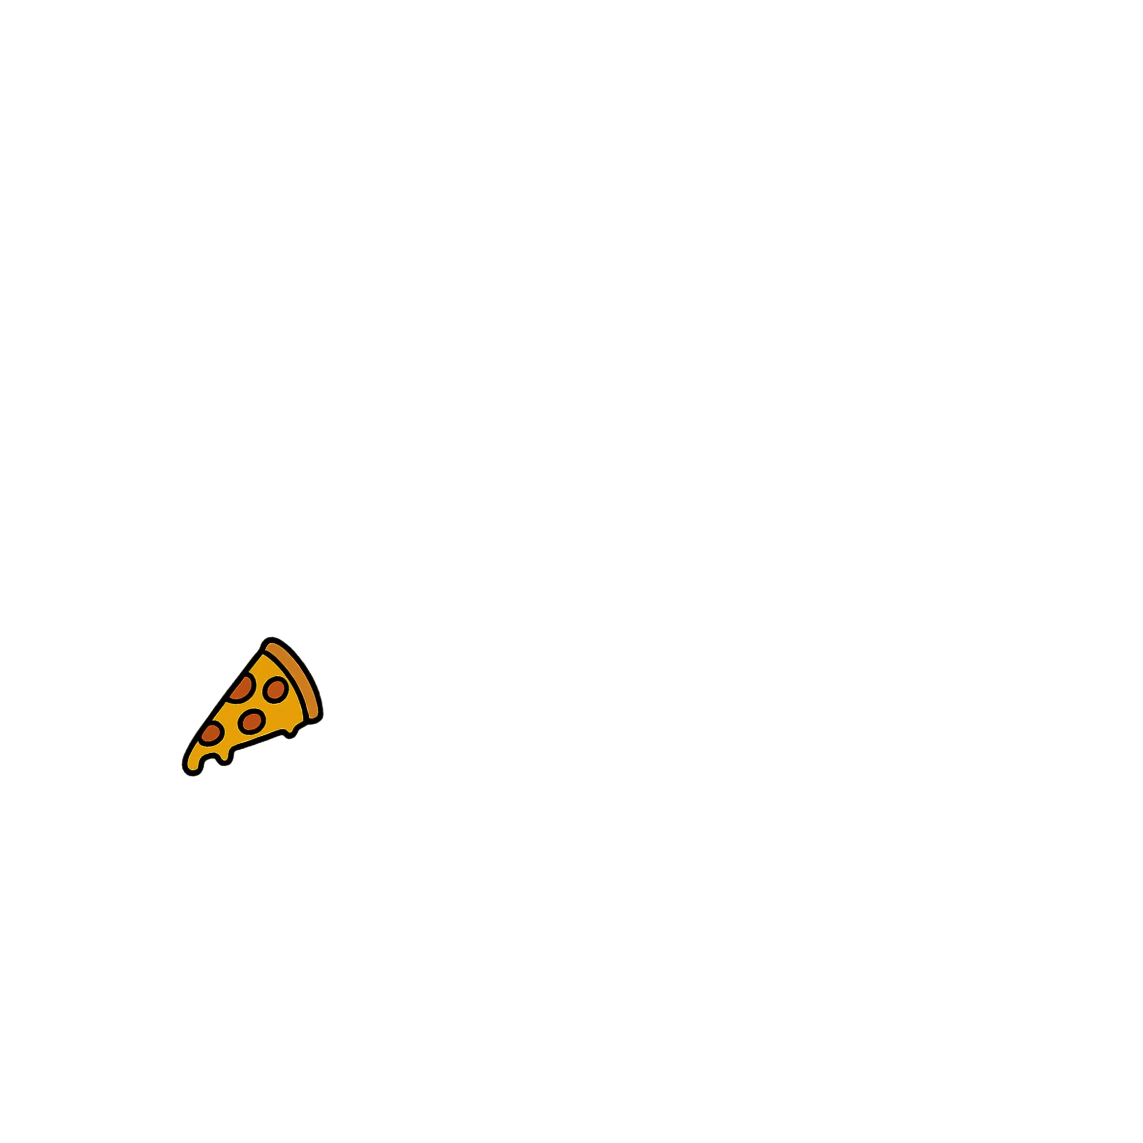
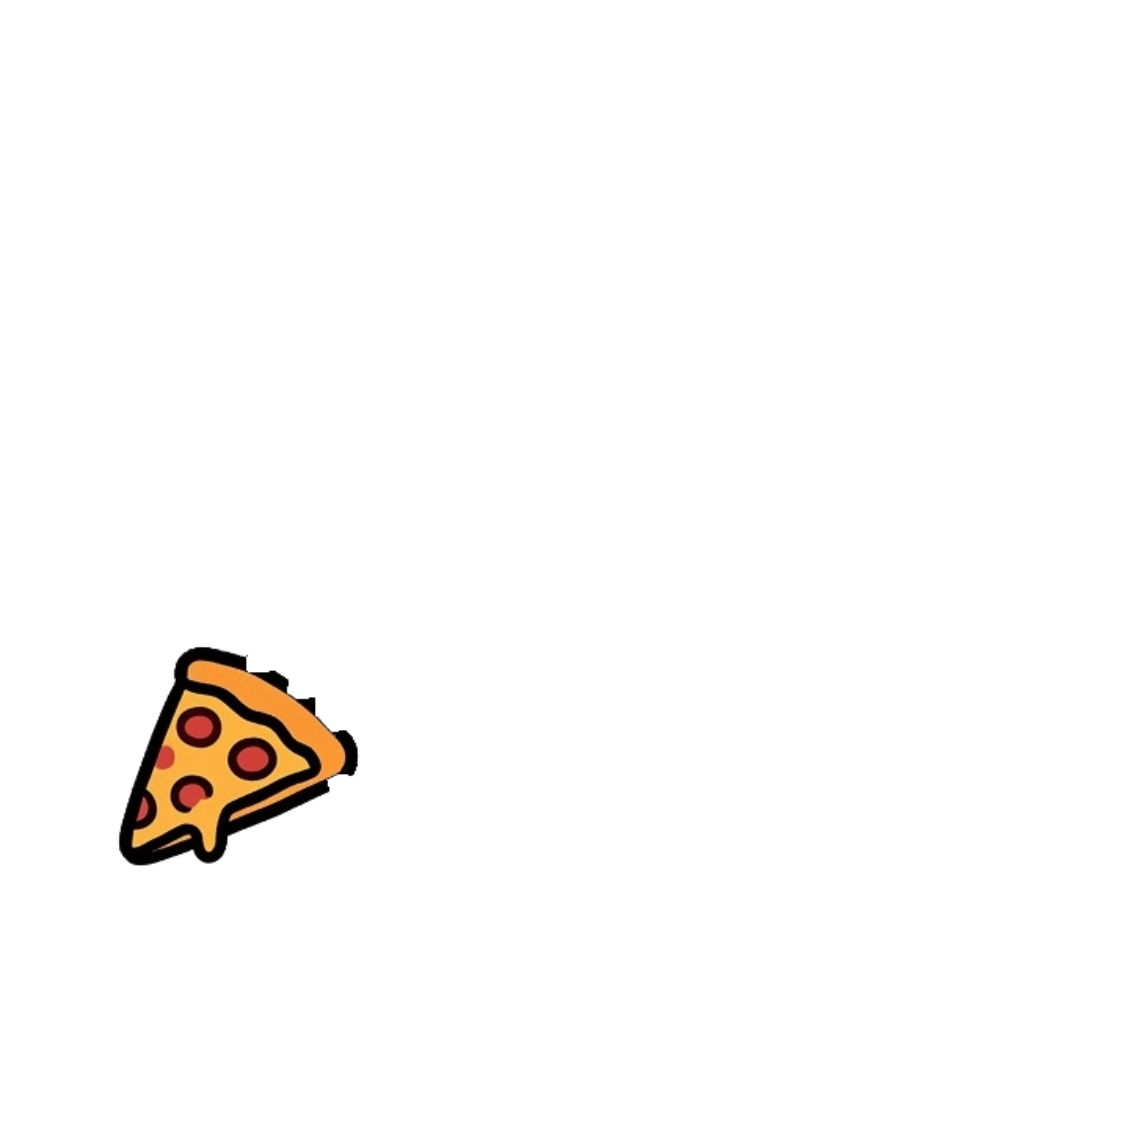
Ship 5 more left_hand rebuilds; handoff: mirror trick, image limit
ping-gameboy, ping-gameboy(Pink), pizza-slice, popcorn, redbull.

Changed region(s): [[0.0919, 0.5512, 0.3368, 0.7655]]

diff --git a/docs/HANDOFF.md b/docs/HANDOFF.md
@@ -1574,3 +1574,46 @@ Owner ruled **birthday-candle REMOVE** mid-session. Both copies are in
    republish to the vetting artifact URL, owner vets, then
    `ship-fixes.mjs --apply`, `rm -rf public/traits-512`,
    `node scripts/generate-index.mjs`, vitest + tsc, commit, push.
+
+### Thirteenth session, 2026-09-13 (night)
+
+- Shipped and pushed 14 rebuilds: left_hand dumbbell, fishing-rod, flower,
+  money-bag, paintbrush, wallet, ping-gameboy, ping-gameboy(Pink),
+  pizza-slice, popcorn, redbull; accessory birdhouse, hello-kitty-pet,
+  mailbox. Not owner-vetted (owner said push); FIX/REMOVE as usual.
+- **Mirror trick for left_hand.** Gemini puts held items on the viewer's
+  RIGHT no matter what the prompt says. Prompt for the right side instead
+  (right_hand category, `__RS` suffix below), then
+  `sh .trait-work/mtake.sh <name>`: moves the download to the next free
+  take, registers, extracts as right_hand, flips about the penguin axis
+  (native x=501.5, `.trait-work/mirror.mjs`), parks
+  `pending/trait-<name>_left_hand.png` and writes `fix/z-<name>.png`.
+  Text/logos come out reversed; say "no text" in the description.
+  `__RS` = " It is held at the tip of the flipper on the viewer's RIGHT,
+  outside the body, drawn compact so it stays well inside the picture. The
+  penguin keeps its exact original colors: jet-black back and flippers,
+  cream-white belly, orange beak and feet. Do NOT make the penguin grey.
+  Keep the penguin exactly the same size and position as image 1."
+- **Reject any take whose fit line is not `s=1.0000`.** Rescaled penguins
+  leak the whole redrawn body outline into the layer. The old chat
+  `/app/1a088e0ade4abeb3` rescaled 5 in a row and is retired. Fresh chat
+  **`/app/ee51a0a8c59b4a4c`** (both refs, 7 sends, all s=1).
+- **Accessory: say "close beside the penguin".** The builder crops the base
+  at 1.4x, so items placed at the canvas edge clip. arcade-machine, boombox,
+  fire-hydrant, pC-gamer, nuke, campfire all clipped (rejected).
+- Fresh-chat setup that worked: tab must be the active tab (screenshots
+  time out on hidden tabs; a hidden fresh `/app` tab never sends). Hook
+  `HTMLInputElement.prototype.click`, click "Upload & tools" by ref (take a
+  screenshot first), click "Upload files" by ref, label + restyle the hooked
+  input in place, `file_upload` both refs. Do NOT also dispatch the paste
+  event: it adds a duplicate attachment. Then `__t(...)` and click Send by
+  coordinate. Later sends via `__send` work from a hidden tab.
+- Tools: `.trait-work/mont.mjs` (raw vs zoom grid), `.trait-work/zm.mjs`
+  (zoom tiles), `.trait-work/queue-13.md` (per-take verdicts).
+- **Gemini image limit hit** after ~30 images today. Remaining when it
+  resets: left_hand skateboard, snowball, sparkler, thor-hammer, handbag,
+  umbrella (small canopy, it clipped the frame top); accessory
+  arcade-machine, boombox, campfire, fire-hydrant, nuke, pC-gamer (retakes,
+  "close beside"), pS5-(right), pet-apu, pet-cheese, plant-pot, rocket,
+  shopping-cart, snowman, stove, treasure-chest, washing-machine,
+  xbox-gamer; then the 10 retakes in `.trait-work/prompts-retake.md`.
